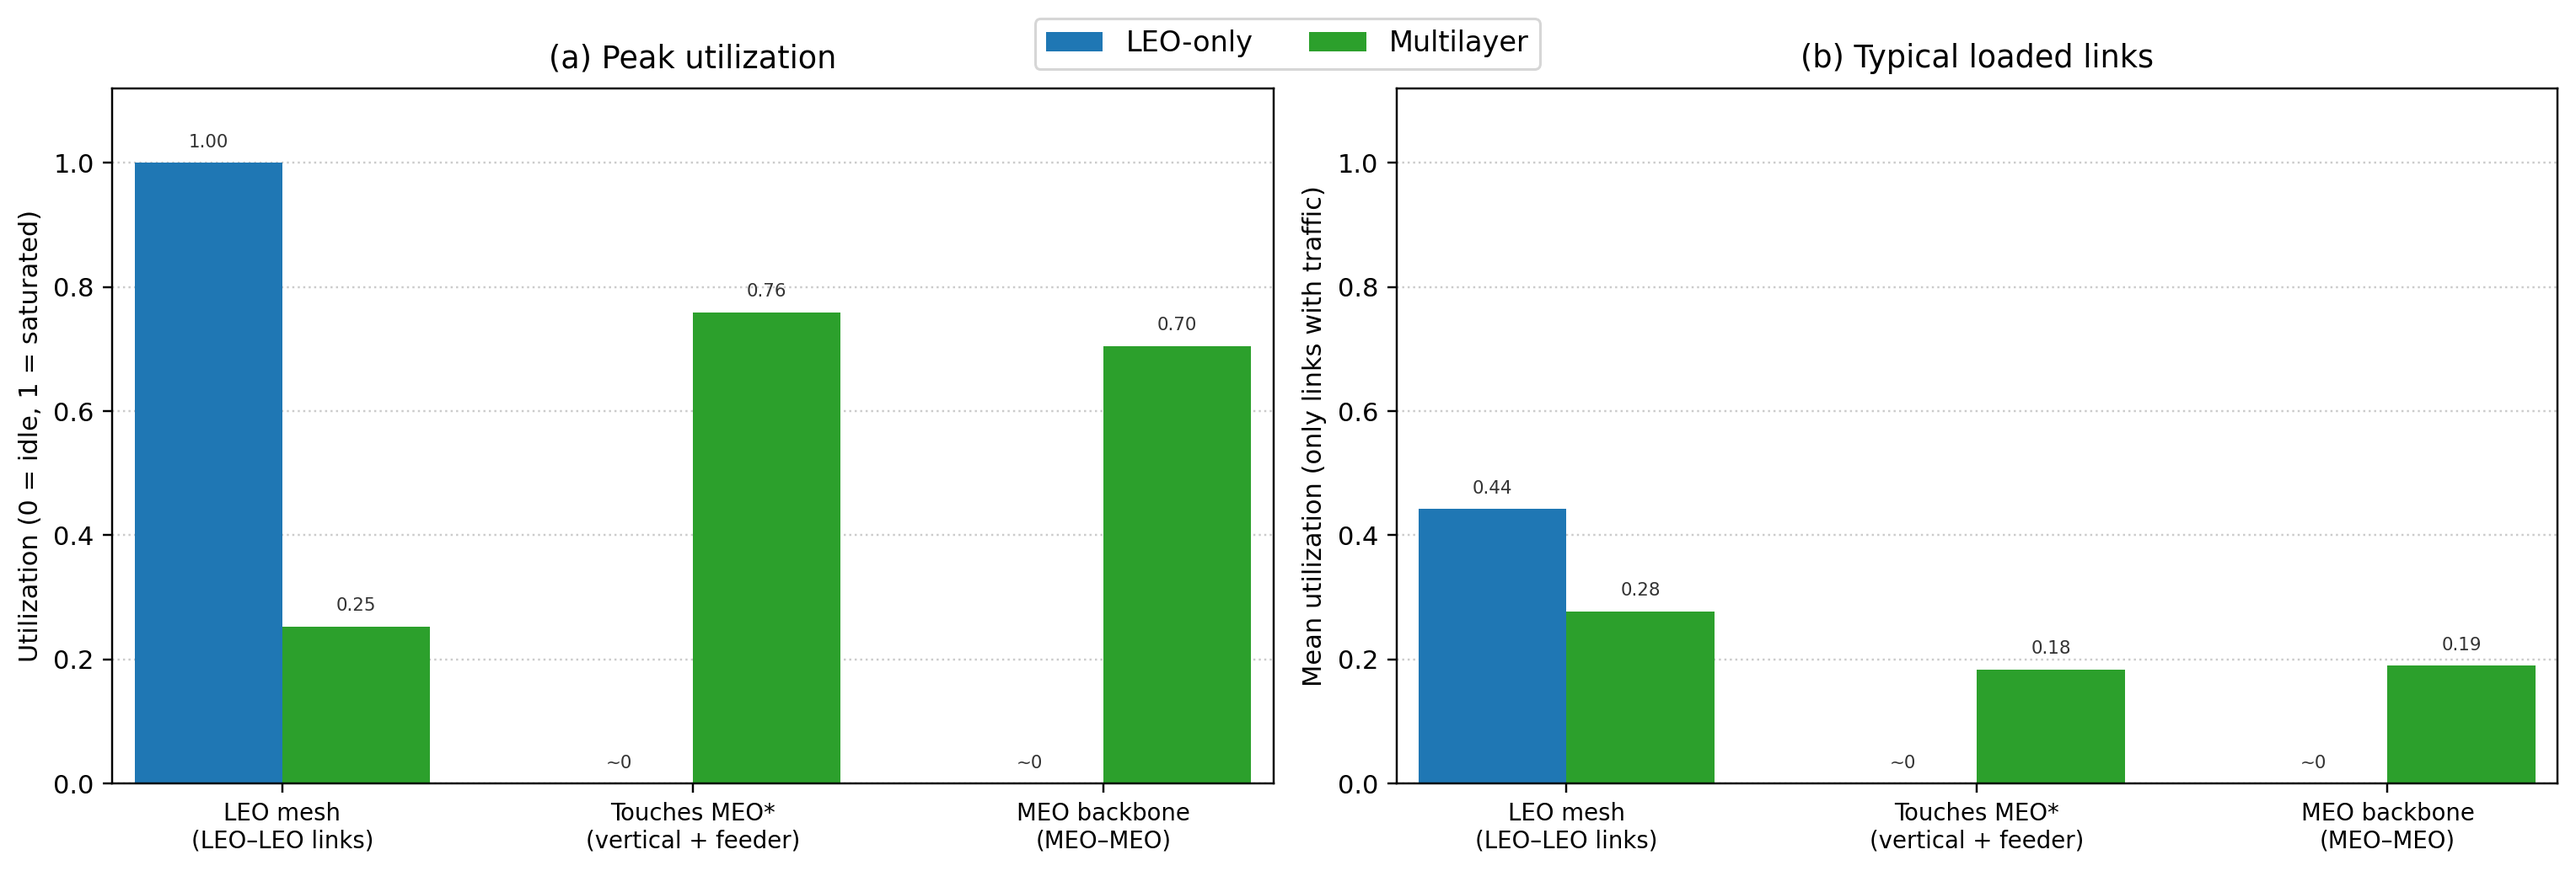
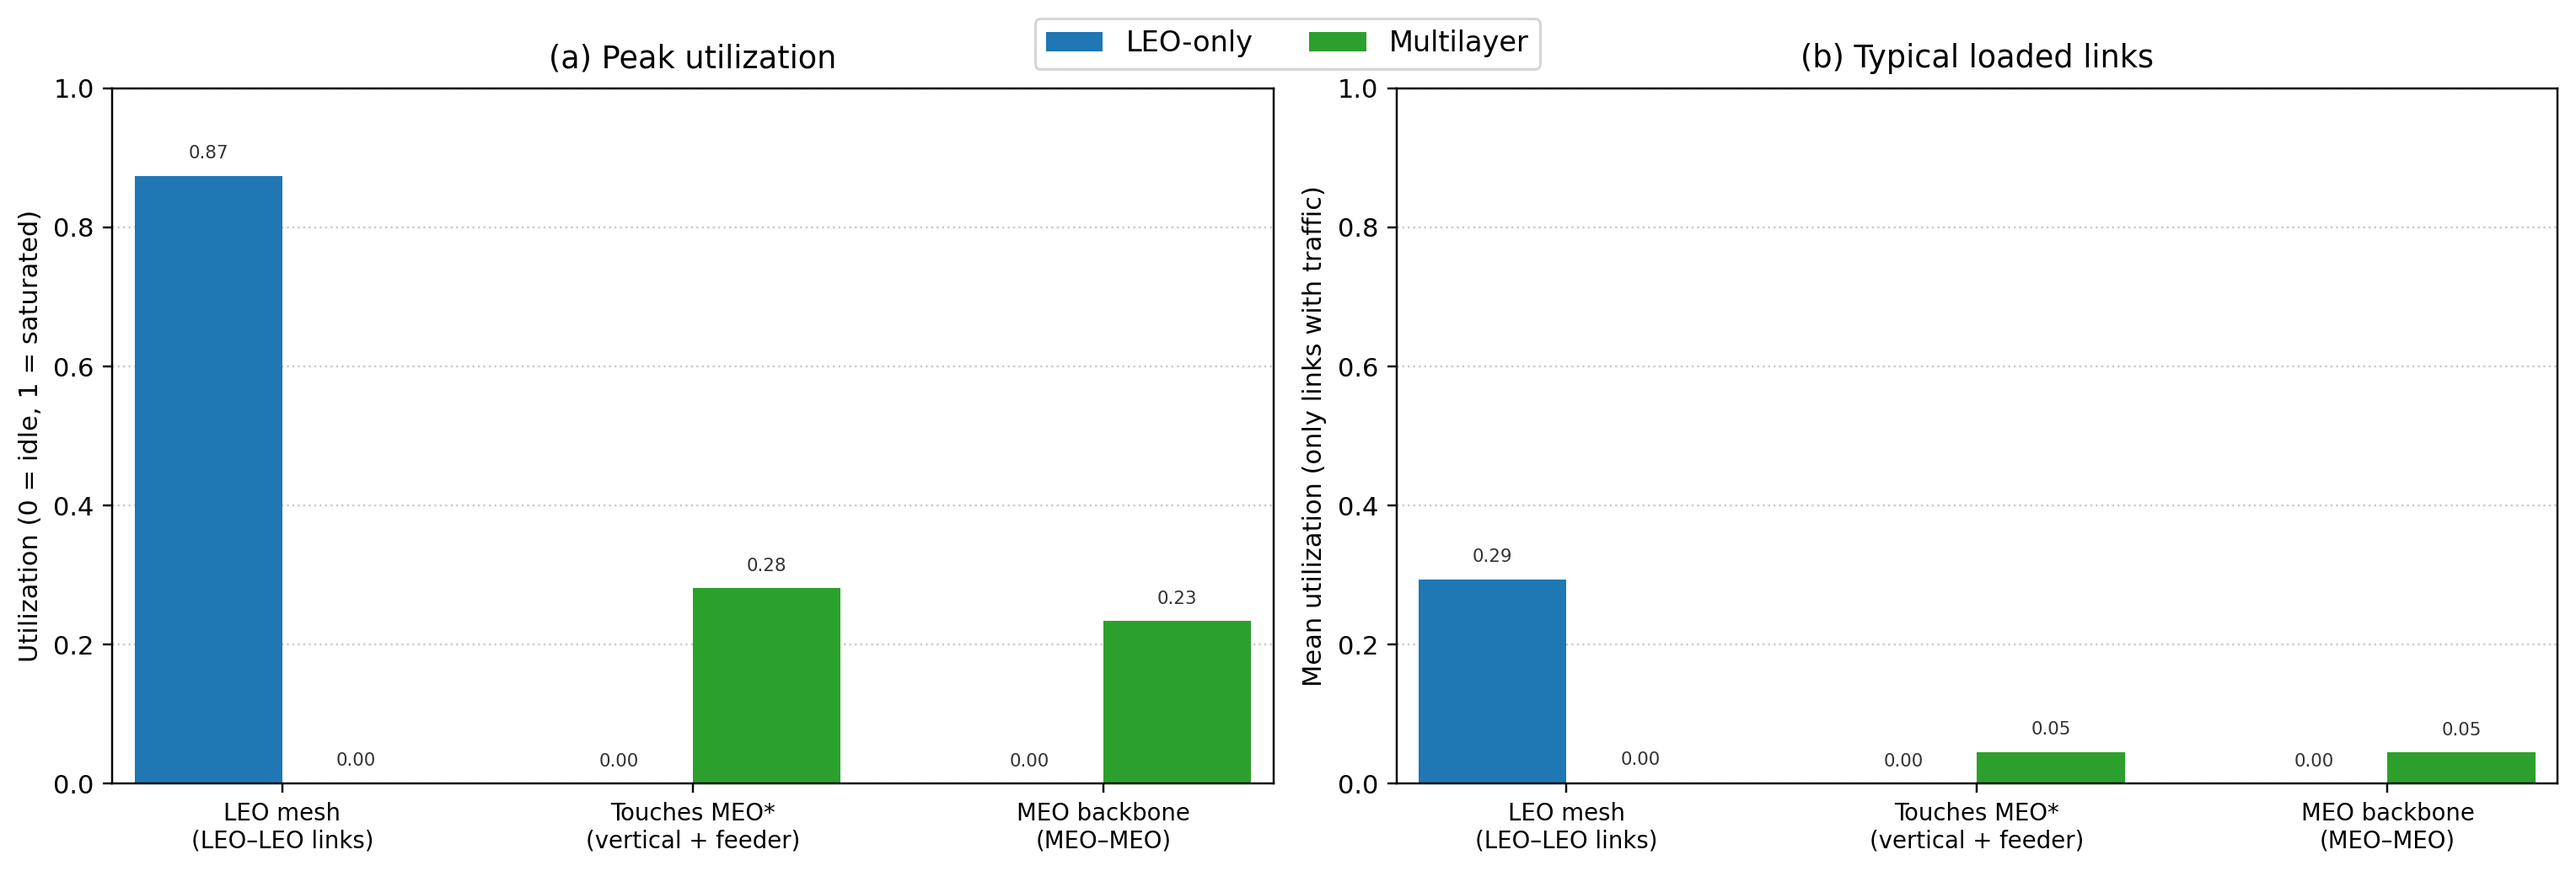
All updated version

diff --git a/paper/ns3_experiments/multilayer/plot_figure_j_load_shift.py b/paper/ns3_experiments/multilayer/plot_figure_j_load_shift.py
@@ -3,12 +3,11 @@
 Figure J — Load-shift (LEO → MEO backbone)
 
 Generates a clear comparison of ISL utilization by link class (LEO-only vs multilayer),
-plus a plain-language summary. See module docstring in previous revisions for metric defs.
+plus a plain-language summary. 
 
 Bars are built from ``multilayer_all_experiments_metrics.csv`` (scalar aggregates per run).
 ``--duration-s`` / ``--time-step-ms`` annotate the figure for the intended simulation setup
-(default: ``run_list``: 25 s, 1000 ms → ``dynamic_state_1000ms_for_25s``). Re-export metrics
-after 25 s experiment-1 TCP runs so the chart matches the caption.
+(default: ``run_list``: 25 s, 1000 ms → ``dynamic_state_1000ms_for_25s``).
 """
 
 import argparse
@@ -134,14 +133,14 @@ def _bar_heights(ys):
 
 
 def _annotate_bars(ax, x, ys, w):
-    """Small labels on top of bars so near-zero values are readable."""
+    """Small labels on top of bars (reference Figure J: ~0 vs 0.00)."""
     for xi, y in zip(x, ys):
         if y <= 1e-6:
-            lbl = "~0"
+            lbl = "0.00" if y == 0.0 else "~0"
             yoff = 0.02
         else:
             lbl = "%.2f" % y
-            yoff = y + 0.02
+            yoff = min(y + 0.02, 0.98)
         ax.text(xi, yoff, lbl, ha="center", va="bottom", fontsize=7, color="#333333")
 
 
@@ -158,7 +157,8 @@ def _panel(ax, y_leo, y_ml, title, ylabel):
     ax.set_ylabel(ylabel, fontsize=10)
     ax.set_title(title, fontsize=12, pad=8)
     ax.grid(True, axis="y", linestyle=":", alpha=0.65)
-    ax.set_ylim(0.0, 1.12)
+    ax.set_ylim(0.0, 1.0)
+    ax.set_yticks([0.0, 0.2, 0.4, 0.6, 0.8, 1.0])
     ax.margins(x=0.02)
 
 
